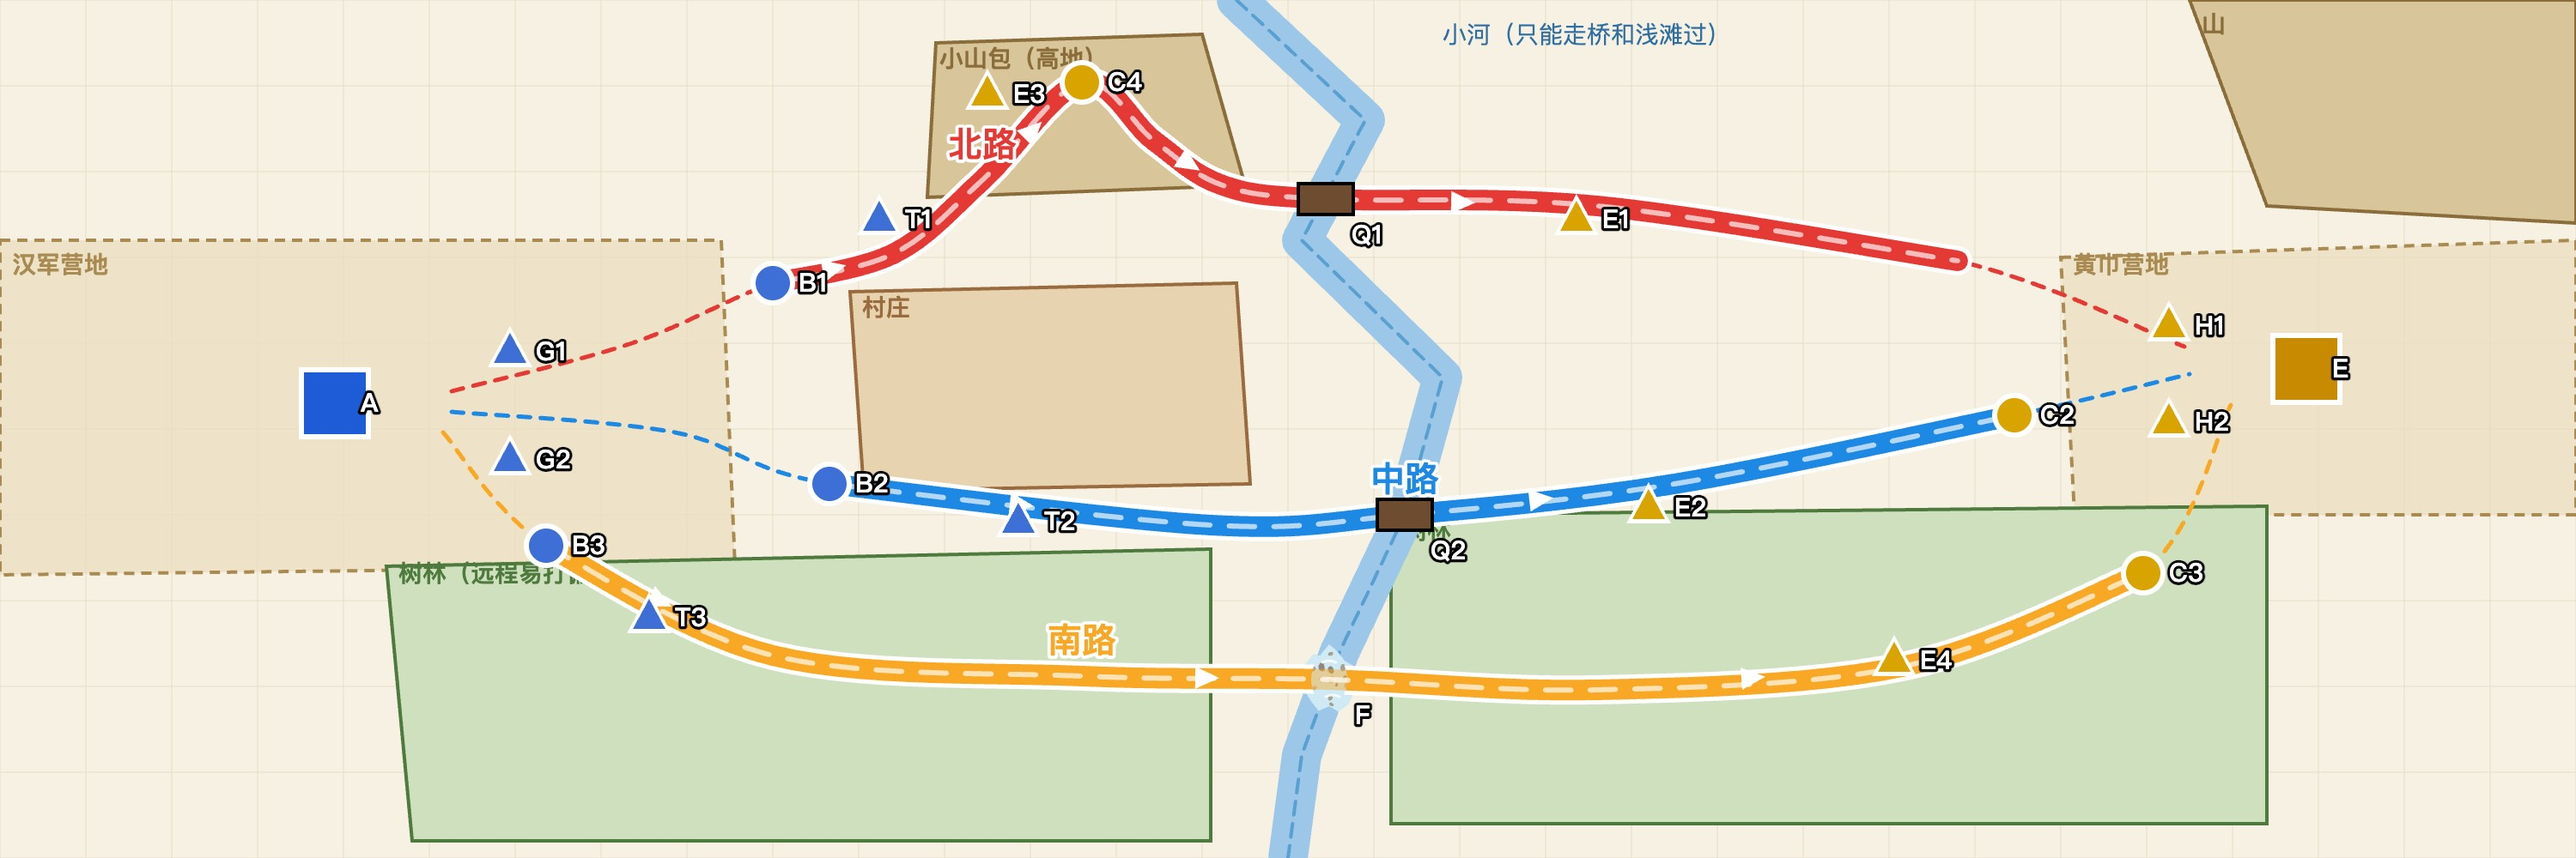
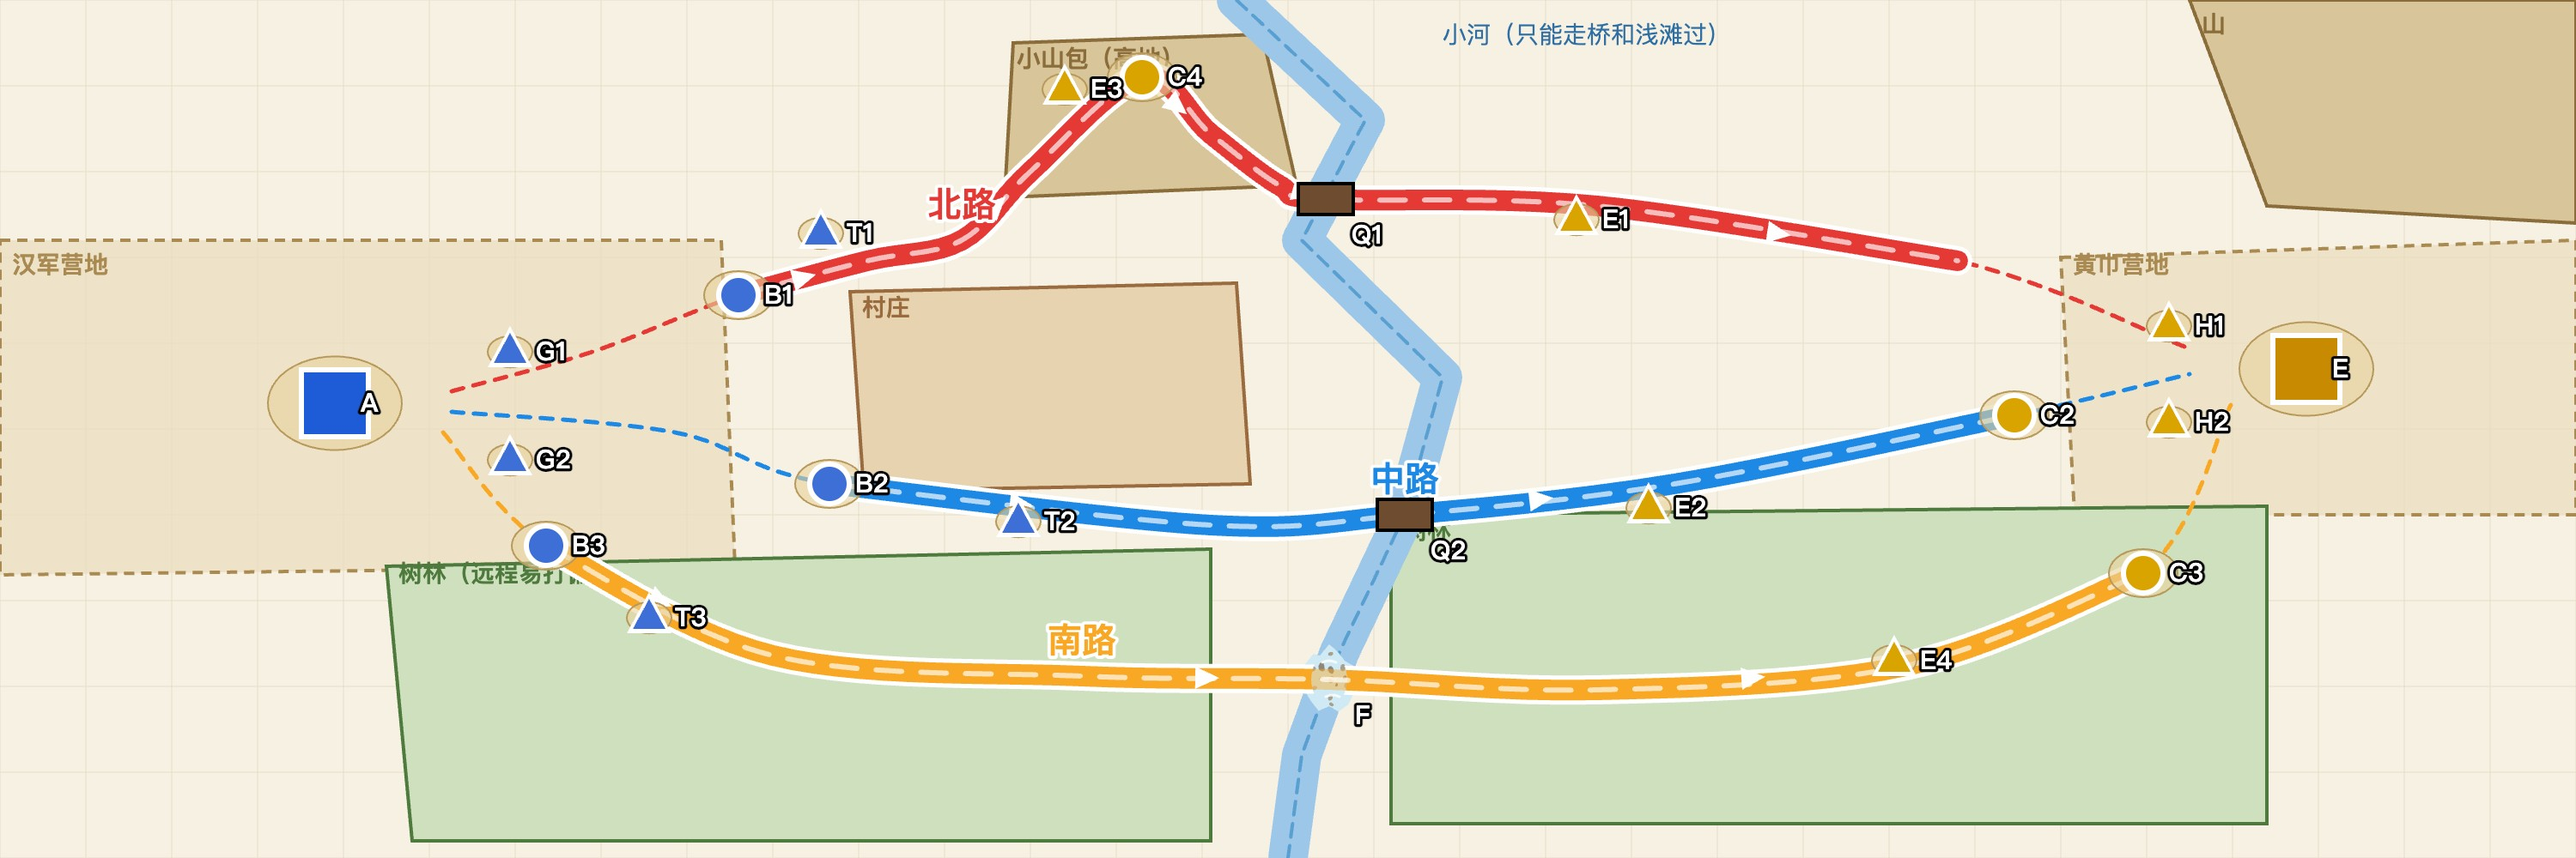
涿郡规划：山包右移、B1/T1 左移，山脚留出平地；规划图按真实空地大小画底圈；出图前检查加「山脚留平地」

diff --git a/docs/涿郡路线规划.html b/docs/涿郡路线规划.html
@@ -7,21 +7,21 @@ h2{margin:6px 0 8px}.k{display:inline-block;width:26px;height:26px;border-radius
 // 坐标用 1500×500（和地形图缩略图一致），画到 3000×1000
 const K=2;
 const ROUTES={
- 北路:{c:'#e53935',road:[2,10],p:[[263,228],[368,200],[450,165],[520,148],[572,105],[630,48],[672,82],[712,108],[772,116],[930,120],[1140,152],[1272,202]],note:'出营先走一段平地，再上坡到山顶黄巾兵营 C4（北路唯一的敌营），下坡过北桥，路通到黄巾大营门前；上坡移速 -25%'},
+ 北路:{c:'#e53935',road:[2,11],p:[[263,228],[345,205],[430,172],[505,152],[560,140],[600,100],[665,45],[705,78],[745,108],[772,116],[930,120],[1140,152],[1272,202]],note:'出营先走一段平地，再上坡到山顶黄巾兵营 C4（北路唯一的敌营），下坡过北桥，路通到黄巾大营门前；上坡移速 -25%'},
  中路:{c:'#1e88e5',road:[2,6],p:[[263,240],[393,252],[483,282],[705,306],[818,300],[975,282],[1173,242],[1275,218]],note:'最短；沿村庄南边；中桥窄，会挤'},
  南路:{c:'#f9a825',road:[1,7],p:[[258,252],[318,318],[450,382],[630,394],[774,396],[930,402],[1110,388],[1248,334],[1299,236]],note:'穿两片树林，浅滩涉水；最慢；树林里远程易打偏'},
 };
 // 关键点位：[编号, 名称, x, y, 类型, 说明]
 const PTS=[
  ['A','汉军主城',195,235,'base','左边夯土空地中央'],
- ['B1','汉军兵营·北',450,165,'camp','北路起点'],
+ ['B1','汉军兵营·北',430,172,'camp','北路起点'],
  ['B2','汉军兵营·中',483,282,'camp','中路起点'],
  ['B3','汉军兵营·南',318,318,'camp','南路起点'],
- ['C4','黄巾兵营·山包',630,48,'ecamp','小山包顶的空地（高地），北路唯一的敌营；高地上的弓兵射程更远'],
- ['E3','黄巾箭塔·山包',575,55,'etower','山顶西侧，高地射程 +30%，压制北路上坡的汉军'],
+ ['C4','黄巾兵营·山包',665,45,'ecamp','小山包顶的空地（高地），北路唯一的敌营；高地上的弓兵射程更远'],
+ ['E3','黄巾箭塔·山包',620,52,'etower','山顶西侧，高地射程 +30%，压制北路上坡的汉军'],
  ['G1','汉军门牙塔·上',297,205,'tower','大本营正面，两座门牙塔之一'],
  ['G2','汉军门牙塔·下',297,268,'tower','大本营正面，两座门牙塔之一'],
- ['T1','汉军箭塔·北',512,128,'tower','B1 前方，保护北路兵营'],
+ ['T1','汉军箭塔·北',478,136,'tower','B1 前方，保护北路兵营'],
  ['T2','汉军箭塔·中',593,304,'tower','B2 前方，保护中路兵营'],
  ['T3','汉军箭塔·南',378,360,'tower','B3 前方，保护南路兵营'],
  ['Q1','北桥（宽）',772,116,'bridge','北路过河；宽，可 3 人并排'],
@@ -55,7 +55,7 @@ function curve(g,p){g.beginPath();g.moveTo(...p[0]);for(let i=0;i<p.length-1;i++
  // 地形线框（只表示范围）
  zone([[0,140],[420,140],[428,330],[0,335]],'#eadcbcaa','#a98a52',[12,8],'汉军营地');
  zone([[1200,150],[1500,140],[1500,300],[1208,300]],'#eadcbcaa','#a98a52',[12,8],'黄巾营地');
- zone([[545,25],[700,20],[725,108],[540,115]],'#d9c59a','#8a6d3b',null,'小山包（高地）');
+ zone([[590,25],[735,20],[755,108],[585,115]],'#d9c59a','#8a6d3b',null,'小山包（高地）');
  zone([[495,170],[720,165],[728,282],[503,286]],'#e8d3b0','#9a6b3e',null,'村庄');
  zone([[225,330],[705,320],[705,490],[240,490]],'#cfe0bf','#4f7a3e',null,'树林（远程易打偏）');
  zone([[810,300],[1320,295],[1320,480],[810,480]],'#cfe0bf','#4f7a3e',null,'树林');
@@ -79,6 +79,8 @@ function curve(g,p){g.beginPath();g.moveTo(...p[0]);for(let i=0;i<p.length-1;i++
    g.fillStyle='#fff';g.beginPath();g.moveTo(16,0);g.lineTo(-12,-13);g.lineTo(-12,13);g.fill();g.restore()}
   const q=p[2];g.font='bold 40px PingFang SC';g.lineWidth=8;g.strokeStyle='#fff';g.strokeText(n,q[0]-40,q[1]-28);g.fillStyle=r.c;g.fillText(n,q[0]-40,q[1]-28);}
  for(const[id,name,x,y,t]of PTS){const X=x*K,Y=y*K,c=COL[t];g.beginPath();
+  // 先按指导图里空地的真实大小画一圈（和 plan_ref 一致），看得出离山、离路有多远
+  if(!['bridge','ford','merge'].includes(t)){const r=t.includes('base')?78:t.includes('tower')?26:40;g.beginPath();g.ellipse(X,Y,r,r*0.7,0,0,7);g.fillStyle='#e8d29c99';g.fill();g.strokeStyle='#b8995c';g.lineWidth=2;g.stroke();g.beginPath()}
   if(t==='bridge'){g.save();g.translate(X,Y);g.fillStyle='#000';g.fillRect(-34,-20,68,40);g.fillStyle=c;g.fillRect(-30,-16,60,32);g.restore()}
   else if(t==='ford'){}
   else if(t.includes('tower')){g.beginPath();g.moveTo(X,Y-30);g.lineTo(X+26,Y+18);g.lineTo(X-26,Y+18);g.closePath();g.fillStyle='#fff';g.fill();g.beginPath();g.moveTo(X,Y-22);g.lineTo(X+19,Y+13);g.lineTo(X-19,Y+13);g.closePath();g.fillStyle=c;g.fill()}

diff --git a/docs/涿郡出图参考.html b/docs/涿郡出图参考.html
@@ -7,21 +7,21 @@ h2{margin:6px 0 8px}.k{display:inline-block;width:26px;height:26px;border-radius
 // 坐标用 1500×500（和地形图缩略图一致），画到 3000×1000
 const K=2;
 const ROUTES={
- 北路:{c:'#e53935',road:[2,10],p:[[263,228],[368,200],[450,165],[520,148],[572,105],[630,48],[672,82],[712,108],[772,116],[930,120],[1140,152],[1272,202]],note:'出营先走一段平地，再上坡到山顶黄巾兵营 C4（北路唯一的敌营），下坡过北桥，路通到黄巾大营门前；上坡移速 -25%'},
+ 北路:{c:'#e53935',road:[2,11],p:[[263,228],[345,205],[430,172],[505,152],[560,140],[600,100],[665,45],[705,78],[745,108],[772,116],[930,120],[1140,152],[1272,202]],note:'出营先走一段平地，再上坡到山顶黄巾兵营 C4（北路唯一的敌营），下坡过北桥，路通到黄巾大营门前；上坡移速 -25%'},
  中路:{c:'#1e88e5',road:[2,6],p:[[263,240],[393,252],[483,282],[705,306],[818,300],[975,282],[1173,242],[1275,218]],note:'最短；沿村庄南边；中桥窄，会挤'},
  南路:{c:'#f9a825',road:[1,7],p:[[258,252],[318,318],[450,382],[630,394],[774,396],[930,402],[1110,388],[1248,334],[1299,236]],note:'穿两片树林，浅滩涉水；最慢；树林里远程易打偏'},
 };
 // 关键点位：[编号, 名称, x, y, 类型, 说明]
 const PTS=[
  ['A','汉军主城',195,235,'base','左边夯土空地中央'],
- ['B1','汉军兵营·北',450,165,'camp','北路起点'],
+ ['B1','汉军兵营·北',430,172,'camp','北路起点'],
  ['B2','汉军兵营·中',483,282,'camp','中路起点'],
  ['B3','汉军兵营·南',318,318,'camp','南路起点'],
- ['C4','黄巾兵营·山包',630,48,'ecamp','小山包顶的空地（高地），北路唯一的敌营；高地上的弓兵射程更远'],
- ['E3','黄巾箭塔·山包',575,55,'etower','山顶西侧，高地射程 +30%，压制北路上坡的汉军'],
+ ['C4','黄巾兵营·山包',665,45,'ecamp','小山包顶的空地（高地），北路唯一的敌营；高地上的弓兵射程更远'],
+ ['E3','黄巾箭塔·山包',620,52,'etower','山顶西侧，高地射程 +30%，压制北路上坡的汉军'],
  ['G1','汉军门牙塔·上',297,205,'tower','大本营正面，两座门牙塔之一'],
  ['G2','汉军门牙塔·下',297,268,'tower','大本营正面，两座门牙塔之一'],
- ['T1','汉军箭塔·北',512,128,'tower','B1 前方，保护北路兵营'],
+ ['T1','汉军箭塔·北',478,136,'tower','B1 前方，保护北路兵营'],
  ['T2','汉军箭塔·中',593,304,'tower','B2 前方，保护中路兵营'],
  ['T3','汉军箭塔·南',378,360,'tower','B3 前方，保护南路兵营'],
  ['Q1','北桥（宽）',772,116,'bridge','北路过河；宽，可 3 人并排'],
@@ -55,7 +55,7 @@ function curve(g,p){g.beginPath();g.moveTo(...p[0]);for(let i=0;i<p.length-1;i++
  // 地形线框（只表示范围）
  zone([[0,140],[420,140],[428,330],[0,335]],'#9cc27a','#9cc27a',[12,8],'汉军营地');
  zone([[1200,150],[1500,140],[1500,300],[1208,300]],'#9cc27a','#9cc27a',[12,8],'黄巾营地');
- zone([[545,25],[700,20],[725,108],[540,115]],'#d9c59a','#8a6d3b',null,'小山包（高地）');
+ zone([[590,25],[735,20],[755,108],[585,115]],'#d9c59a','#8a6d3b',null,'小山包（高地）');
  zone([[495,170],[720,165],[728,282],[503,286]],'#e8d3b0','#9a6b3e',null,'村庄');
  zone([[225,330],[705,320],[705,490],[240,490]],'#4e8a45','#4e8a45',null,'树林（远程易打偏）');
  zone([[810,300],[1320,295],[1320,480],[810,480]],'#4e8a45','#4e8a45',null,'树林');

diff --git a/tools/art/check_plan.py b/tools/art/check_plan.py
@@ -1,6 +1,6 @@
 """出图前核对路线规划（手绘规划页 html）：不过就不许出图。
 检查：① 桥、浅滩的中心必须在河道中心线上；② 每条进攻路线（全程，不只画出来的路）正好过河一次，过河点就是一座桥或浅滩；
-③ 路从我方兵营出发，并且经过一座敌方兵营。坐标按 1000×500。
+③ 路从我方兵营出发，并且经过一座敌方兵营；④ 山下的兵营、箭塔、主城，空地边缘离山脚要留出一段平地。坐标按 1000×500。
 用法：python3 tools/art/check_plan.py docs/涿郡路线规划.html
 """
 import json, math, re, sys
@@ -8,6 +8,9 @@ import json, math, re, sys
 TOL_ON_RIVER = 3   # 桥/浅滩中心离河道中心线的最大距离
 TOL_CROSS = 6      # 路过河点离桥/浅滩中心的最大距离
 TOL_END = 3        # 路的端点离兵营中心的最大距离
+HILL_GAP = 40      # 山下建筑空地边缘到山脚的最小距离
+# 空地半径（和出图参考页 plan_ref 里画的空地一样大：像素 78/26/40，÷2 换成坐标）
+FOOT = {"base": 39, "ebase": 39, "tower": 13, "etower": 13, "camp": 20, "ecamp": 20}
 
 src = open(sys.argv[1]).read()
 river = json.loads(re.search(r"// 河[^\n]*\n\s*g\.beginPath\(\);(\[\[.*?\]\])\.forEach", src).group(1))
@@ -63,5 +66,20 @@ for name, P in routes.items():
     dd = min(math.dist(q, (foe[2], foe[3])) for q in R)
     print(f"  路经过敌营 {foe[0]}，距离 {dd:.1f}")
     if dd > TOL_END: errs.append(f"{name} 的路没经过敌方兵营，最近的 {foe[0]} 差 {dd:.1f}")
+# ④ 山脚留平地：不在山上的建筑，空地边缘到山包轮廓的距离
+hill = re.search(r"zone\((\[\[.*?\]\]),[^\n]*'小山包", src)
+if hill:
+    H_ = json.loads(hill.group(1))
+    def inside(p):
+        c = False
+        for i in range(len(H_)):
+            (x0, y0), (x1, y1) = H_[i], H_[(i + 1) % len(H_)]
+            if (y0 > p[1]) != (y1 > p[1]) and p[0] < x0 + (x1 - x0) * (p[1] - y0) / (y1 - y0): c = not c
+        return c
+    for i, n, x, y, t in pts:
+        if t not in FOOT or inside((x, y)): continue
+        gap = min(seg_dist((x, y), H_[k], H_[(k + 1) % len(H_)]) for k in range(len(H_))) - FOOT[t]
+        if gap < 120: print(f"{i} {n}：空地边缘离山脚 {gap:.0f}")
+        if gap < HILL_GAP: errs.append(f"{i}（{n}）离山脚太近：空地边缘只差 {gap:.0f}，要 ≥{HILL_GAP}")
 print("\n".join(["✗ " + e for e in errs]) if errs else "✓ 规划检查通过")
 sys.exit(1 if errs else 0)
